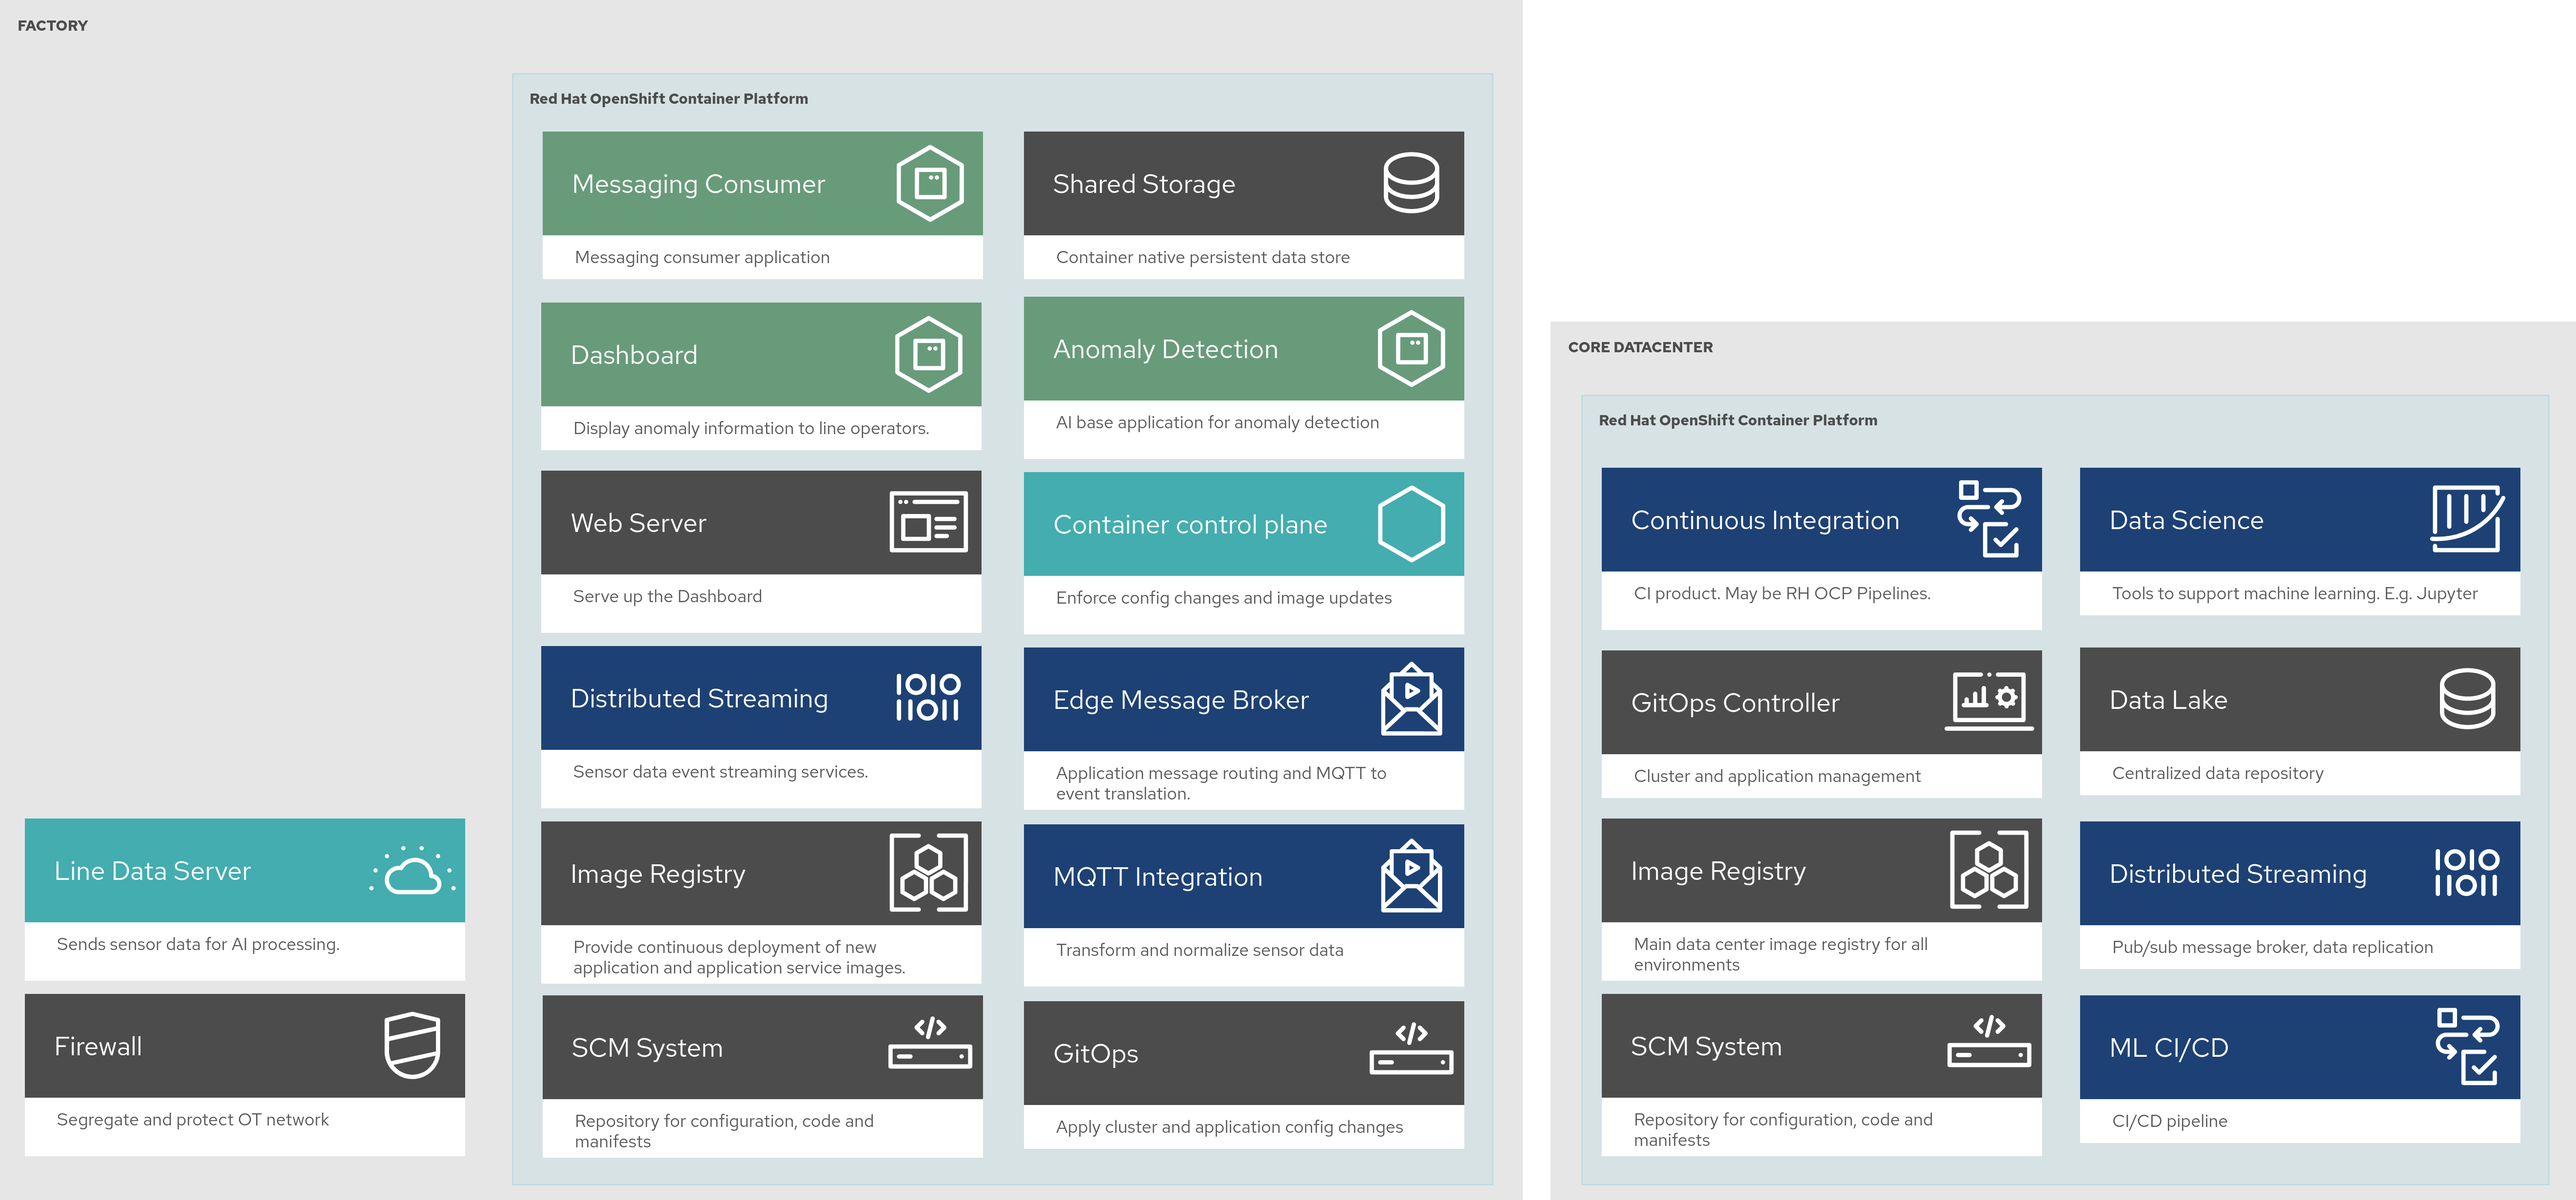
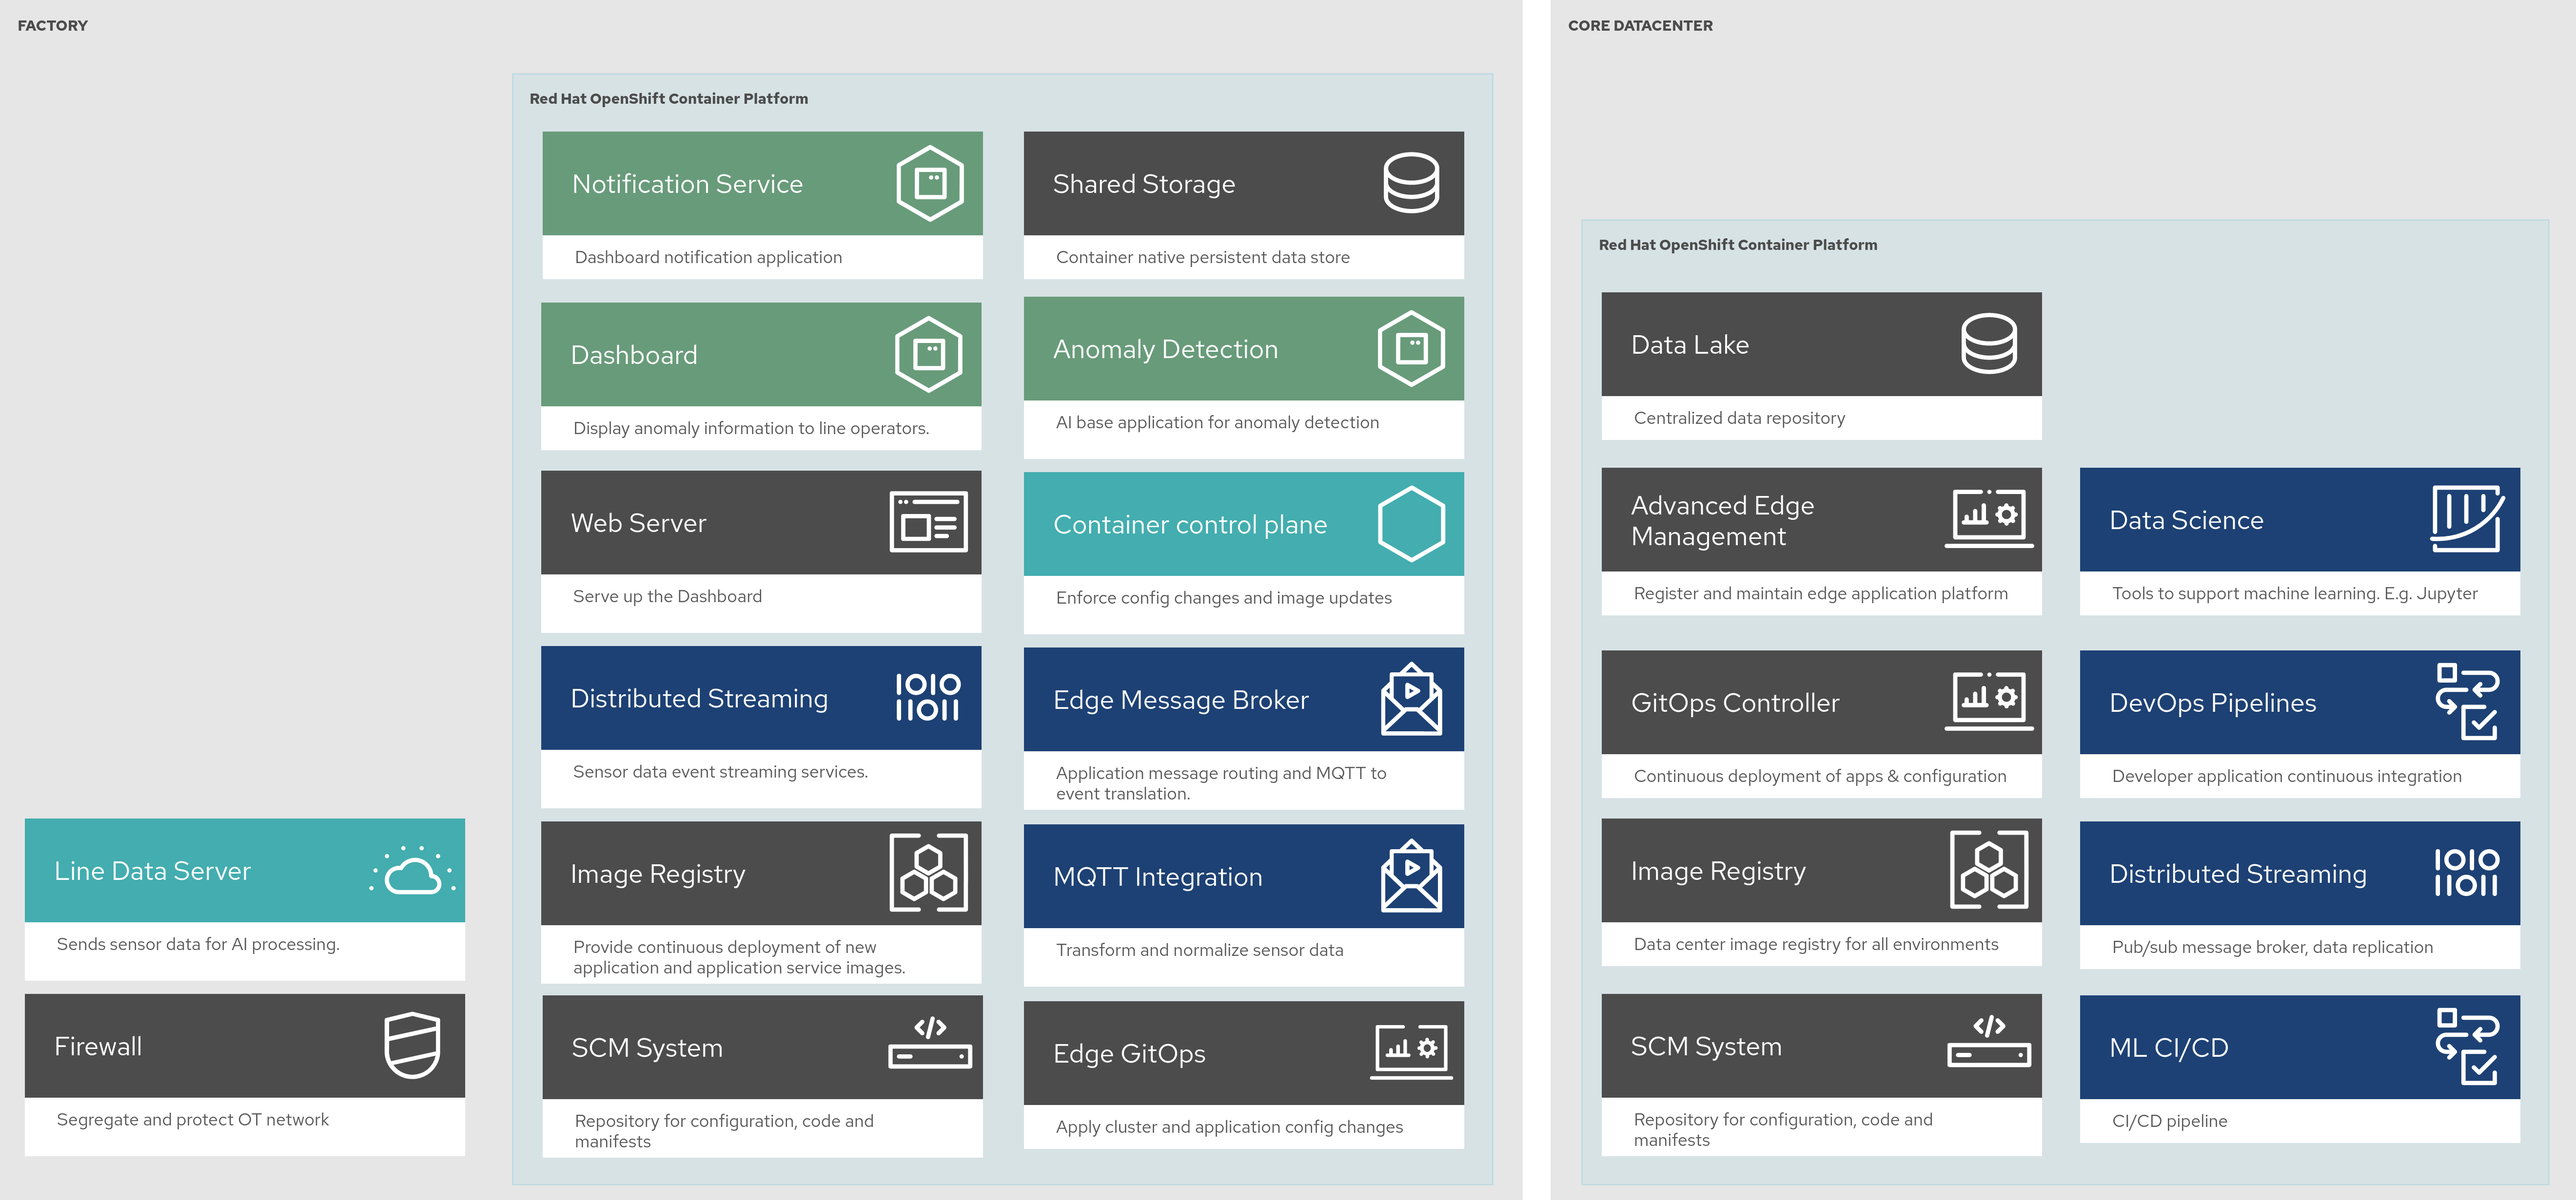
Updated images and modified industrial edge doc

diff --git a/industrial-edge/index.md b/industrial-edge/index.md
@@ -35,15 +35,15 @@ industrial setting, but it could easily be applicable to other verticals.
 
 ### Red Hat Technologies
 
-- OpenShift
-- OpenShift GitOps (ArgoCD)
-- OpenShift Pipelines (Tekton)
-- OpenShift Container Storage
-- Advanced Cluster Management
+- Red Hat OpenShift Container Platform (Kubernetes++)
+- Red Hat Advanced Cluster Management (Open Clutser Management)
+- Red Hat OpenShift GitOps (ArgoCD)
+- Red Hat OpenShift Pipelines (Tekton)
+- Red Hat Quay (Container image registry)
+- Red Hat AMQ (Apache ActiveMQ)
+- Red Hat AMQ Streams (Apache Kafka Event Broker)
+- Red Hat Integration (Apache Camel-K)
 - Open Data Hub
-- AMQ (MQTT Message broker)
-- AMQ Streams (Kafka Event Broker)
-- Camel-K Integrations
 
 ## Architecture
 
@@ -71,12 +71,16 @@ The diagram below shows the components are are deployed in the datacenter and th
 
 ![Industrial Edge Physical Dataflow Architecture](/images/manufacturing-schema-df.png)
 
+While the above diagrams show the components involved on the DevOps side dealing with the application and the AI/ML models, there are other components to conside when dealing with operational side using GitOps.
+
+[Industrial Edge Physical GitOps Architecture](/images/manufacturing-schema-gitops.png)
+
 ## Recorded Demo
 
 ## Prerequisties
 
 1. An OpenShift cluster ( Go to https://console.redhat.com/openshift/create )
-1. (Optional) A second OpenShift cluster
+1. (Optional) A second OpenShift cluster for the factory (edge).
 1. A github account
 1. A quay account
 
@@ -95,18 +99,20 @@ containing the complete configuration.
 1. Check to see that all Operators have been deployed
 
   ```
-  UI -> Installed Operators
+  OpenShift UI -> Installed Operators
   ```
+The entire deployment involves several OpenShift GitOps applications. It takes time to deploy everything. You may have to go back and forth between this step and the next step to make sure
+that all the operators are deployed. 
 
-1. Check all ArgoCD applications are synchronised
+1. Check all OpenShift GitOps applications are synchronised
 
-  a. Obtain the ArgoCD urls and passwords
+  a. Obtain the ArgoCD console urls and passwords
 
   ```
   for name in openshift datacenter factory; do oc -n $name-gitops get route $name-gitops-server -o jsonpath='{.spec.host}'; echo ; oc -n $name-gitops extract secrets/$name-gitops-cluster --to=-; done
   ```
 
-  a. Log in, and check for green applications
+  a. Log in using the userid `admin` and the provided generated passowrd. There will be a number and check for green applications
 
 ## What Next
 

diff --git a/industrial-edge/troubleshooting.md b/industrial-edge/troubleshooting.md
@@ -19,6 +19,30 @@ nav_order: 2
 
 ## Installation-phase Failures
 
+There framework for deploying the applications and their operators has been made very for the user 
+by using OpenShift GitOps for continuous deployment (Argo CD). It takes time to deploy everything. 
+You may have to go back and forth between the OpenShift cluster console and the OpenShift GitOps console to check on applications and operators being up and in a ready state. 
+
+The applications deployment for the main data center are as follows. First OpenShift GitOps operator will deploy. See the OpenShift Console to see that it is running. Then OpenShift GitOps takes over the rest of the deployment. It deploys the following applications
+
+- Advanced Cluster Management operator in the application `acm`. this will manage the edge clusters
+- Open Data Hub in the application `odh` for the data science components. 
+- OpenShift Pipelines is deployed in the application pipelines
+- AMQ Streams is deployed to manage data coming from factories and stored in a data lake. 
+- The data lake uses S3 based storage and is deployed in the `central-s3` application
+- Testing at the data center is managed by the `manuela-test` application  
+
+Make sure that all these applications are `Healthy` 💚 and `Synced` ✅ in the OpenShift GitOps console. If in a state other than `Healthy` (`Progressing, Degraded, Missing, Unknown'`) then it's time to dive deeper into that application and see what has happened.
+
+
+The applications deployed on the factory (edge) cluster are as follows. After a successful importing [1] a factory cluster to the main ACM hub, you should check in the factory cluster's OpenShift UI to see if the projects `open-cluster-manager-agent` and `open-cluster-manager-agent-addons` are running. When these are deployed then OpenShift GitOps operator will be deployed on the cluster. From there OpenShift GitOps deploys the following applications:
+
+- `datalake` application sets streams to the data center.
+- `stormshift` sets up application and AMQ integration components
+- `odh` sets up the AI/ML models that have been developed by the data scientists. 
+
+[1] ACM has different ways of describing this process based on which tool you are using. Attach, Join, Import are terms associated with bringing a cluster under the management of a hub cluster. 
+
 ### Install loop does not complete
 
 #### Symptom: `make install` does not complete in a timely fashion (~10 minutes from start).  Status messages keep scrolling.

diff --git a/README.md b/README.md
@@ -1,1 +1,7 @@
-# docs
+# README
+
+This project contains the documentation for hybrid-cloud-patterns.io
+
+The directory structure is pretty straightforward. The images dir are where images used in the documentation are loaded and referenced. Each validated pattern receives its own directory that includes an index.md file and any other files needed fo explain the pattern. 
+
+
